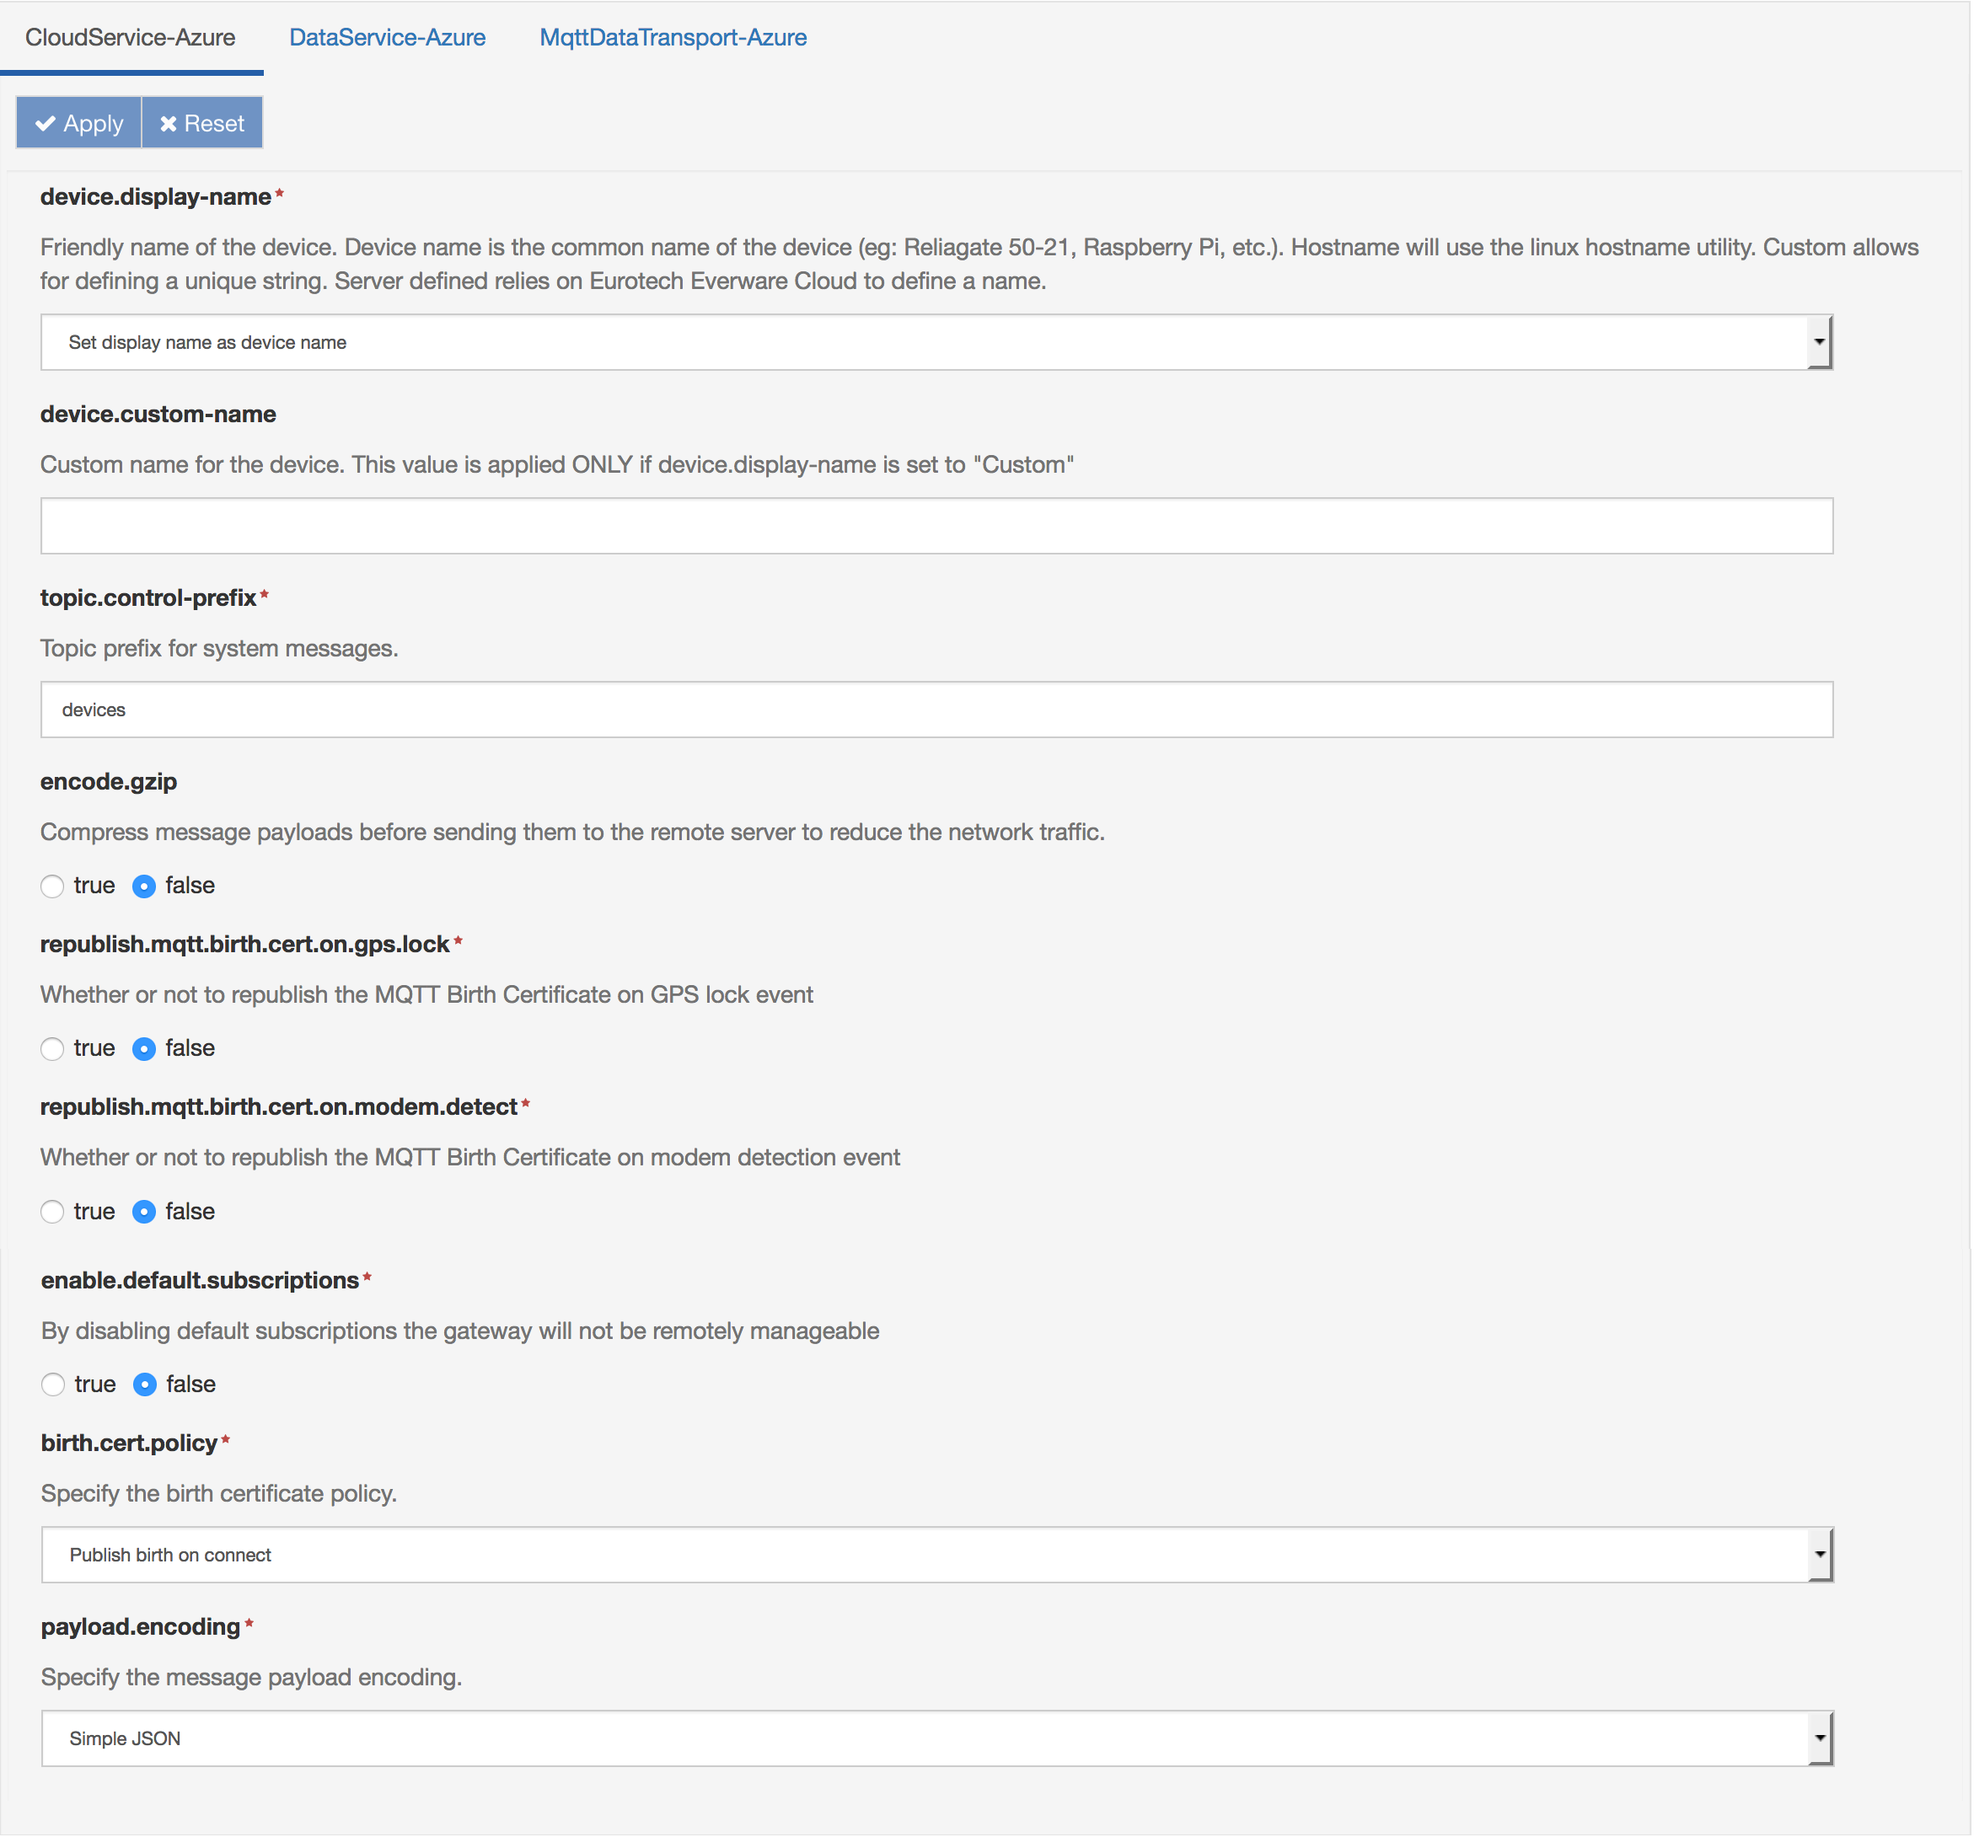
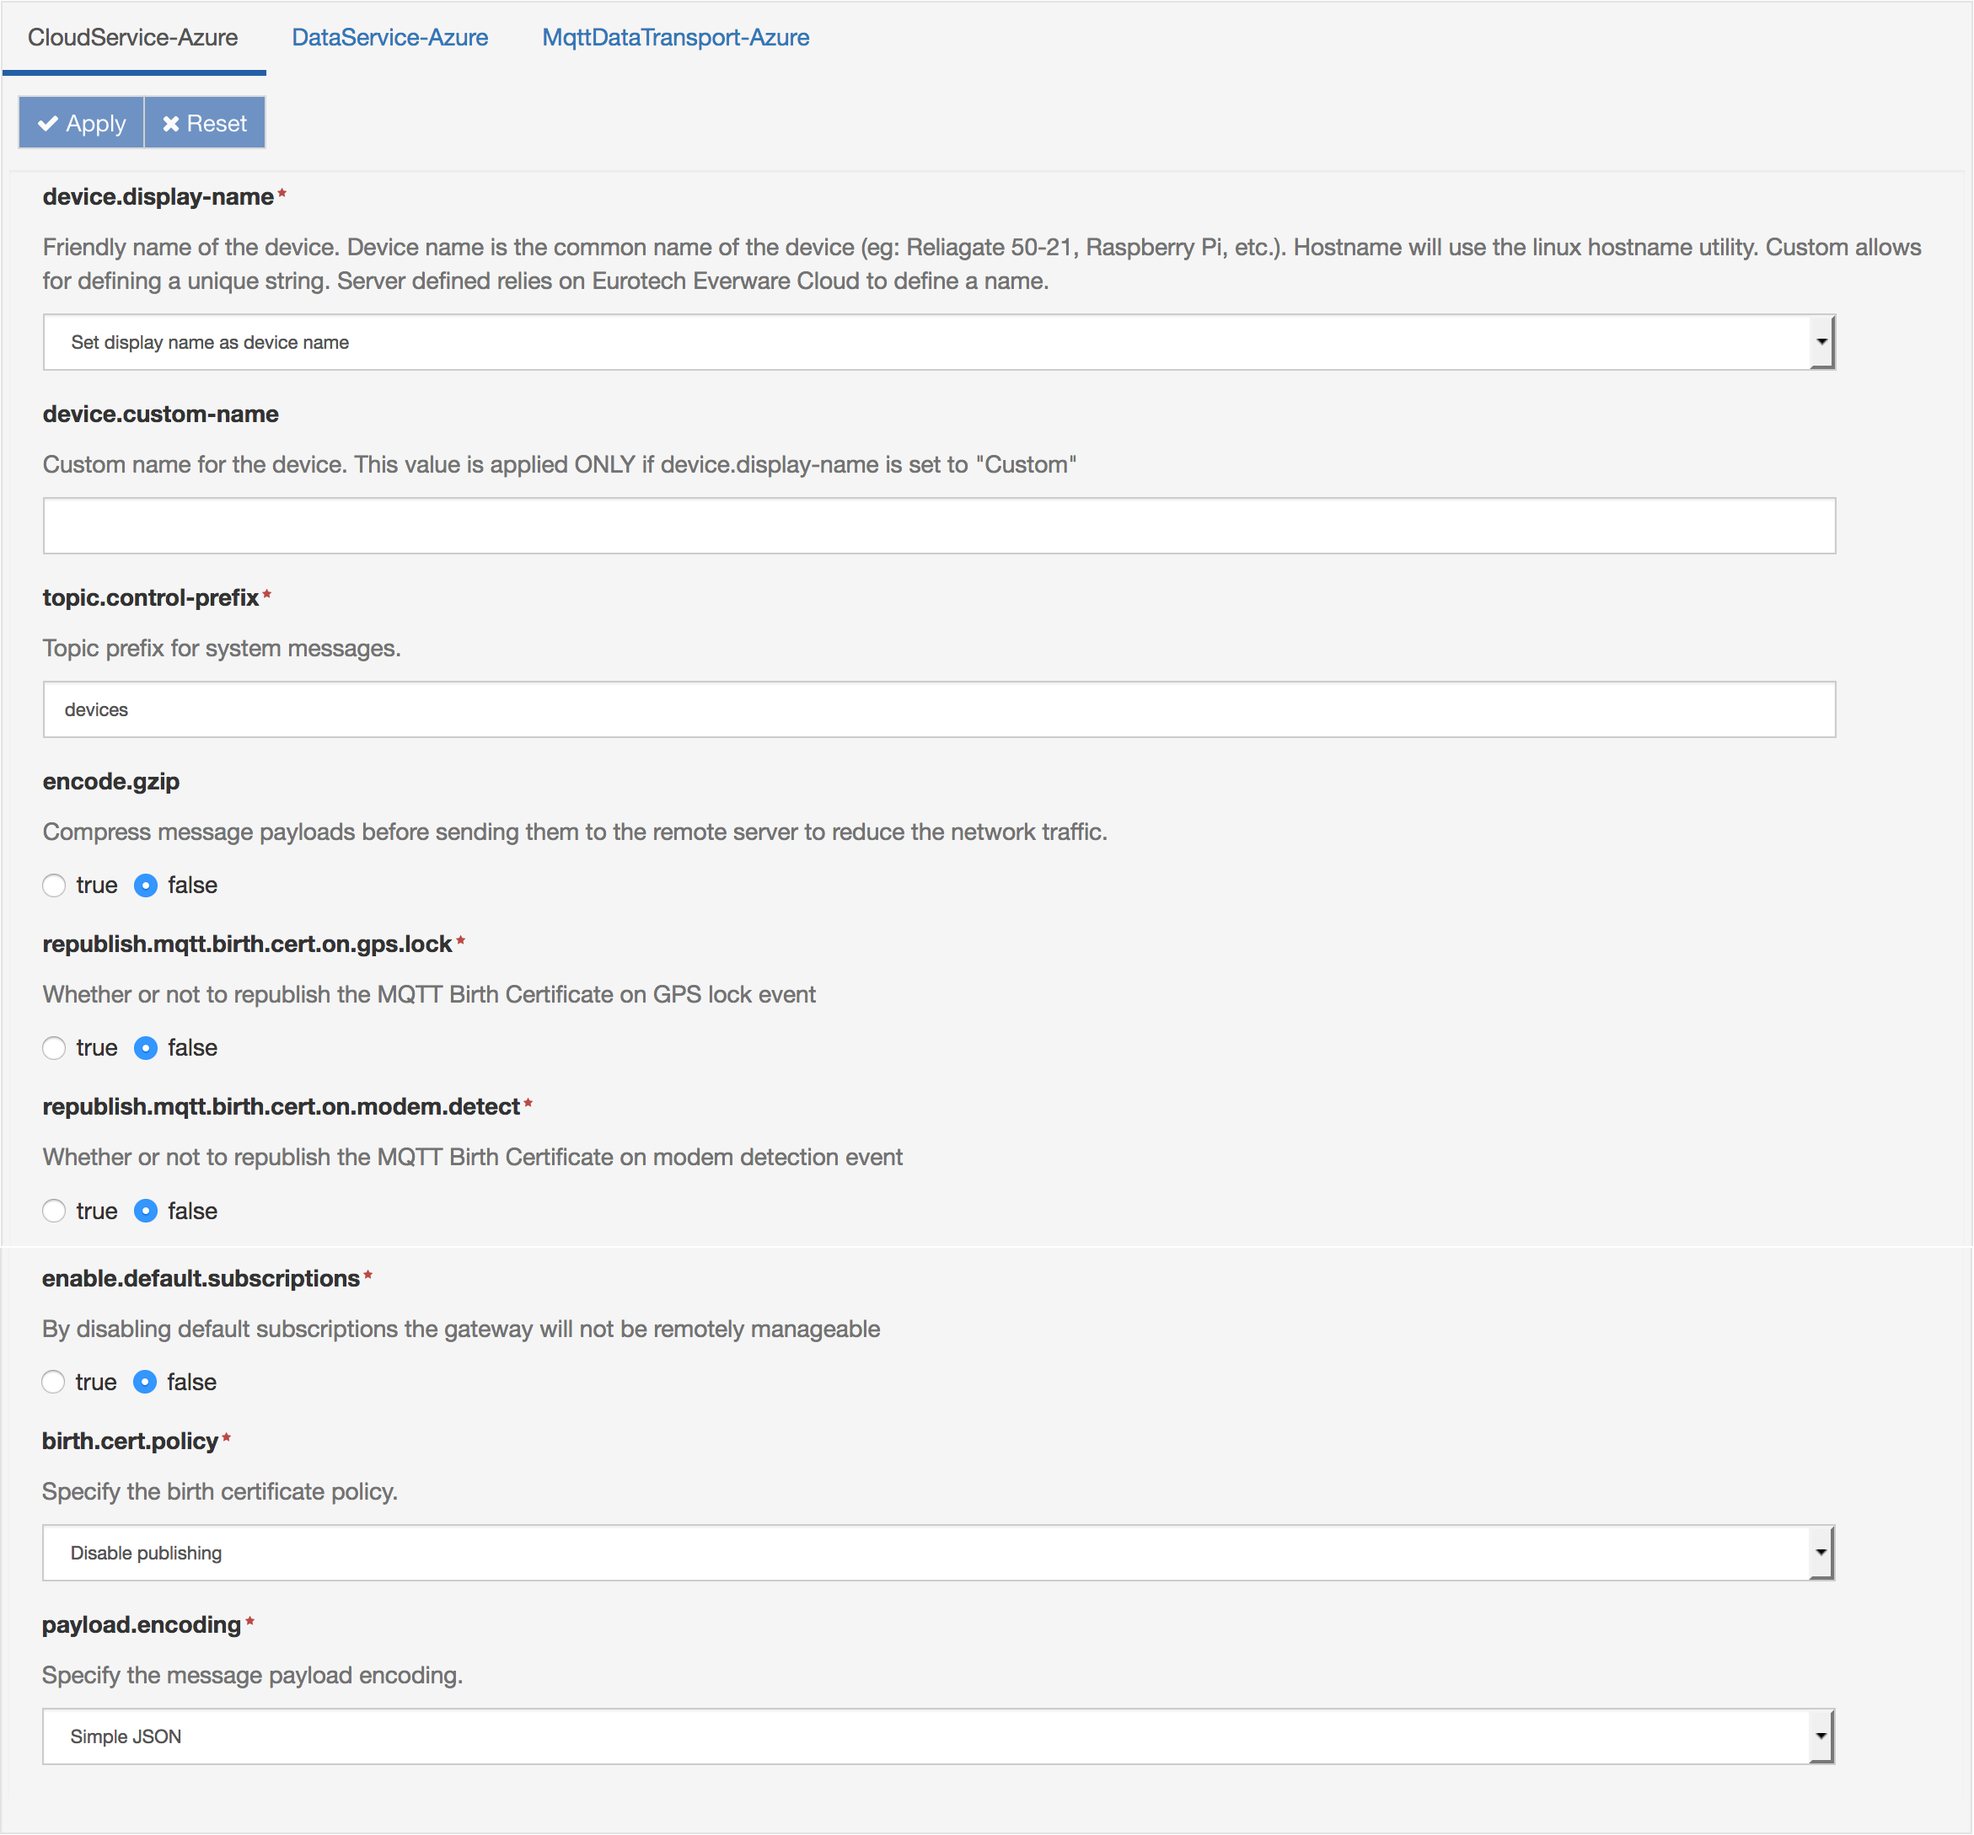
Fixed Azure doc

diff --git a/_posts/cloud/2017-04-26-kura-azure.md b/_posts/cloud/2017-04-26-kura-azure.md
@@ -44,6 +44,27 @@ iothub-explorer sas-token {device-name}
 
 Be aware that the SAS token will expire in 1 hour by default, but using "-d" option it is possible to set a custom expiration time.
 
+### SSL certificates
+
+In order to connect to your IoT Hub instance, Kura should trust the remote broker through a SSL certificate. The simpler way to get the IotHub certificate is to run the following command on a shell:
+
+```
+openssl s_client -showcerts -tls1 -connect {iothubhostname}:8883
+```
+
+The result is the SSL certificate chain. Copy **all** the certificates in the format:
+
+```
+-----BEGIN CERTIFICATE-----
+...
+-----END CERTIFICATE-----
+-----BEGIN CERTIFICATE-----
+...
+-----END CERTIFICATE-----
+```
+
+and paste them in to the "Server SSL Certificate" tab under "Settings" in Kura. Then click the Apply button and restart Kura to update the keystore.
+
 ## Configuring a Kura Cloud Stack for Azure IoT Hub
 
 The Kura Gateway Administrative Console exposes all services necessary to configure a connection to the Azure IoT Hub. You can follow the steps outlined below to configure the connection to the Azure IoT Hub.
@@ -109,9 +130,9 @@ The default settings for the CloudService should be modified as follow to allow 
 
 - **republish.mqtt.birth.cert.on.modem.detect** - should be set `false` to avoid sending additional messages on cellular modem update
 
-- **disable.default.subscriptions** - should be set `false` to avoid subscriptions on Kura control topics for cloud-to-device
+- **enable.default.subscriptions** - should be set `false` to avoid subscriptions on Kura control topics for cloud-to-device
 
-- **disable.republish.birth.cert.on.reconnect** - should be set `false` to avoid sending additional device profile messages on MQTT connect
+- **birth.cert.policy** - should be set `Disable publishing` to avoid sending additional device profile messages on MQTT connect
 
 - **payload.encoding** - should be set to `Simple JSON`
 
